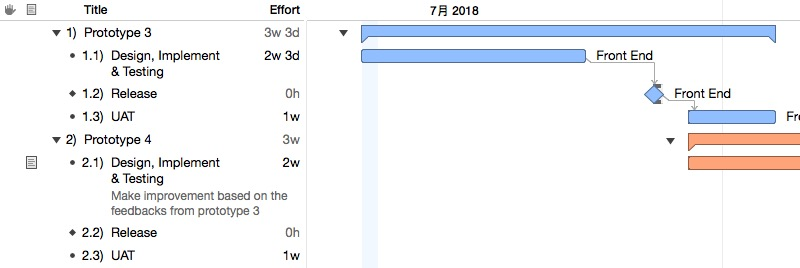
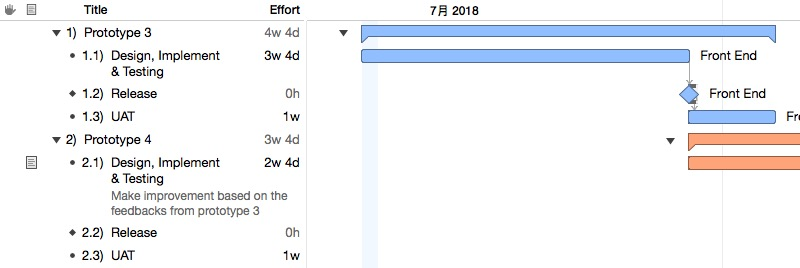
Update

diff --git a/resource.html b/resource.html
@@ -42,7 +42,7 @@
                 <td style="padding-left: 10px;">Front End</td>
                 <td>11/7/2018 上午8:00</td>
                 <td>17/8/2018 下午5:00</td>
-                <td>6w 3d</td>
+                <td>8w 3d</td>
                 <td>0%</td>
                 <td align="right"></td>
             </tr>
@@ -50,17 +50,8 @@
             <tr>
                 <td style="padding-left: 18px;" class="wrap taskTypeTask">Design, Implement &amp; Testing</td> 
                 <td>11/7/2018 上午8:00</td>
-                <td>23/7/2018 下午5:00</td>
-                <td>2w 3d</td>
-                <td>0%</td>
-                <td align="right"></td>
-            </tr>
-            
-            <tr>
-                <td style="padding-left: 18px;" class="wrap taskTypeMilestone">Release</td> 
-                <td>27/7/2018 下午4:45</td>
-                <td>27/7/2018 下午4:45</td>
-                <td>0h</td>
+                <td>29/7/2018 下午5:00</td>
+                <td>3w 4d</td>
                 <td>0%</td>
                 <td align="right"></td>
             </tr>
@@ -68,8 +59,17 @@
             <tr>
                 <td style="padding-left: 18px;" class="wrap taskTypeTask">Design, Implement &amp; Testing</td> 
                 <td>30/7/2018 上午8:00</td>
-                <td>8/8/2018 下午5:00</td>
-                <td>2w</td>
+                <td>12/8/2018 下午5:00</td>
+                <td>2w 4d</td>
+                <td>0%</td>
+                <td align="right"></td>
+            </tr>
+            
+            <tr>
+                <td style="padding-left: 18px;" class="wrap taskTypeMilestone">Release</td> 
+                <td>30/7/2018 上午8:00</td>
+                <td>30/7/2018 上午8:00</td>
+                <td>0h</td>
                 <td>0%</td>
                 <td align="right"></td>
             </tr>

diff --git a/task.html b/task.html
@@ -66,8 +66,8 @@
             <tr class="taskTypeTask">
                 <td style="padding-left: 28px;" class="wrap">1.1) Design, Implement &amp; Testing</td>
                 <td>11/7/2018 上午8:00</td>
-                <td>23/7/2018 下午5:00</td>
-                <td>2w 3d</td>
+                <td>29/7/2018 下午5:00</td>
+                <td>3w 4d</td>
                 <td>0%</td>
                 <td></td>
                 <td align="right"></td>
@@ -82,8 +82,8 @@
             
             <tr class="taskTypeMilestone">
                 <td style="padding-left: 28px;" class="wrap">1.2) Release</td>
-                <td>27/7/2018 下午4:45</td>
-                <td>27/7/2018 下午4:45</td>
+                <td>30/7/2018 上午8:00</td>
+                <td>30/7/2018 上午8:00</td>
                 <td></td>
                 <td>0%</td>
                 <td>1.1</td>
@@ -91,7 +91,7 @@
                 <td>Front End</td>
                 <td></td>
                 <td></td>
-                <td>27/7/2018 下午4:45</td>
+                <td>30/7/2018 上午8:00</td>
                 <td></td>
                 <td></td>
                 <td></td>
@@ -134,8 +134,8 @@
             <tr class="taskTypeTask">
                 <td style="padding-left: 28px;" class="wrap">2.1) Design, Implement &amp; Testing</td>
                 <td>30/7/2018 上午8:00</td>
-                <td>8/8/2018 下午5:00</td>
-                <td>2w</td>
+                <td>12/8/2018 下午5:00</td>
+                <td>2w 4d</td>
                 <td>0%</td>
                 <td></td>
                 <td align="right"></td>

diff --git a/gantt.html b/gantt.html
@@ -32,8 +32,8 @@
             <h1>CUPP: <span class="subtitle">Gantt Chart</span></h1>
           <div class="tablewrap">  <table border="0" cellspacing="0" cellpadding="0">
 <tr>
-	<td><img src="include/gantt0,0.jpg?nocacheTag=-338250764" border=0/></td>
-	<td><img src="include/gantt1,0.jpg?nocacheTag=-184938456" border=0/></td>
+	<td><img src="include/gantt0,0.jpg?nocacheTag=-1070996325" border=0/></td>
+	<td><img src="include/gantt1,0.jpg?nocacheTag=-297885780" border=0/></td>
 </tr>
 </table>
 </div>

diff --git a/montecarlo.html b/montecarlo.html
@@ -50,9 +50,9 @@
             </tr> 
             <tr>
 	            <td>Time to Achieve</td>
-	            <td>27/7/2018 下午4:45</td>
-	            <td>27/7/2018 下午4:45</td>
-	            <td>27/7/2018 下午4:45</td>
+	            <td>30/7/2018 上午8:00</td>
+	            <td>30/7/2018 上午8:00</td>
+	            <td>30/7/2018 上午8:00</td>
             </tr>       
 	            
 	          </table> 
